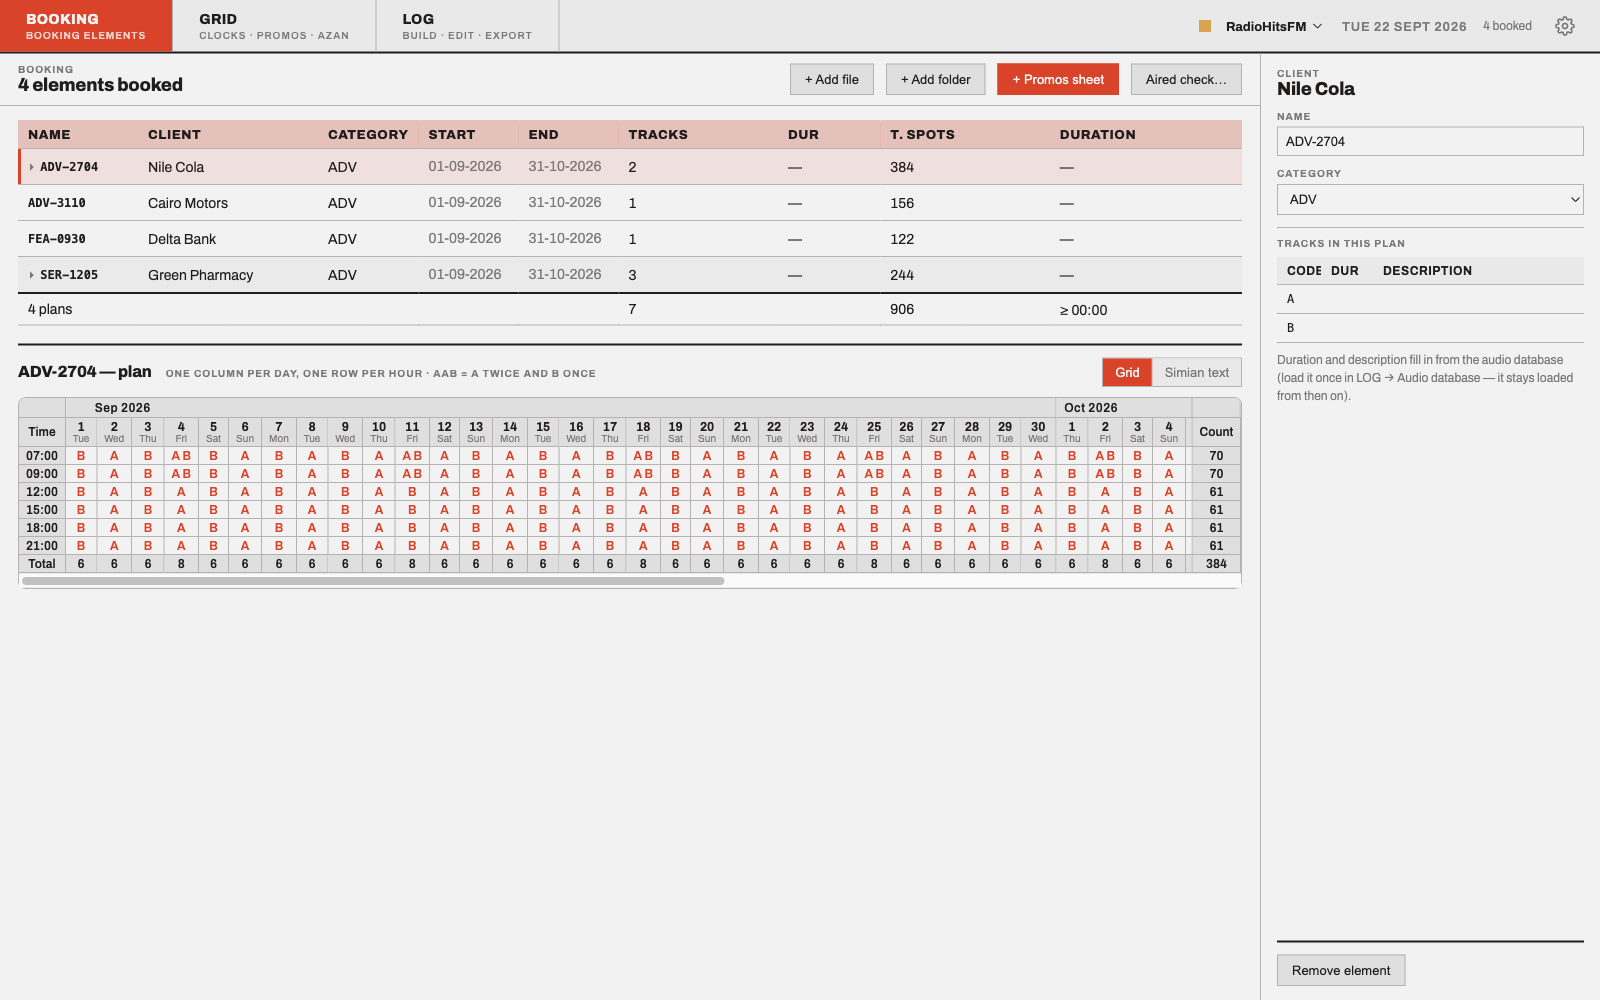
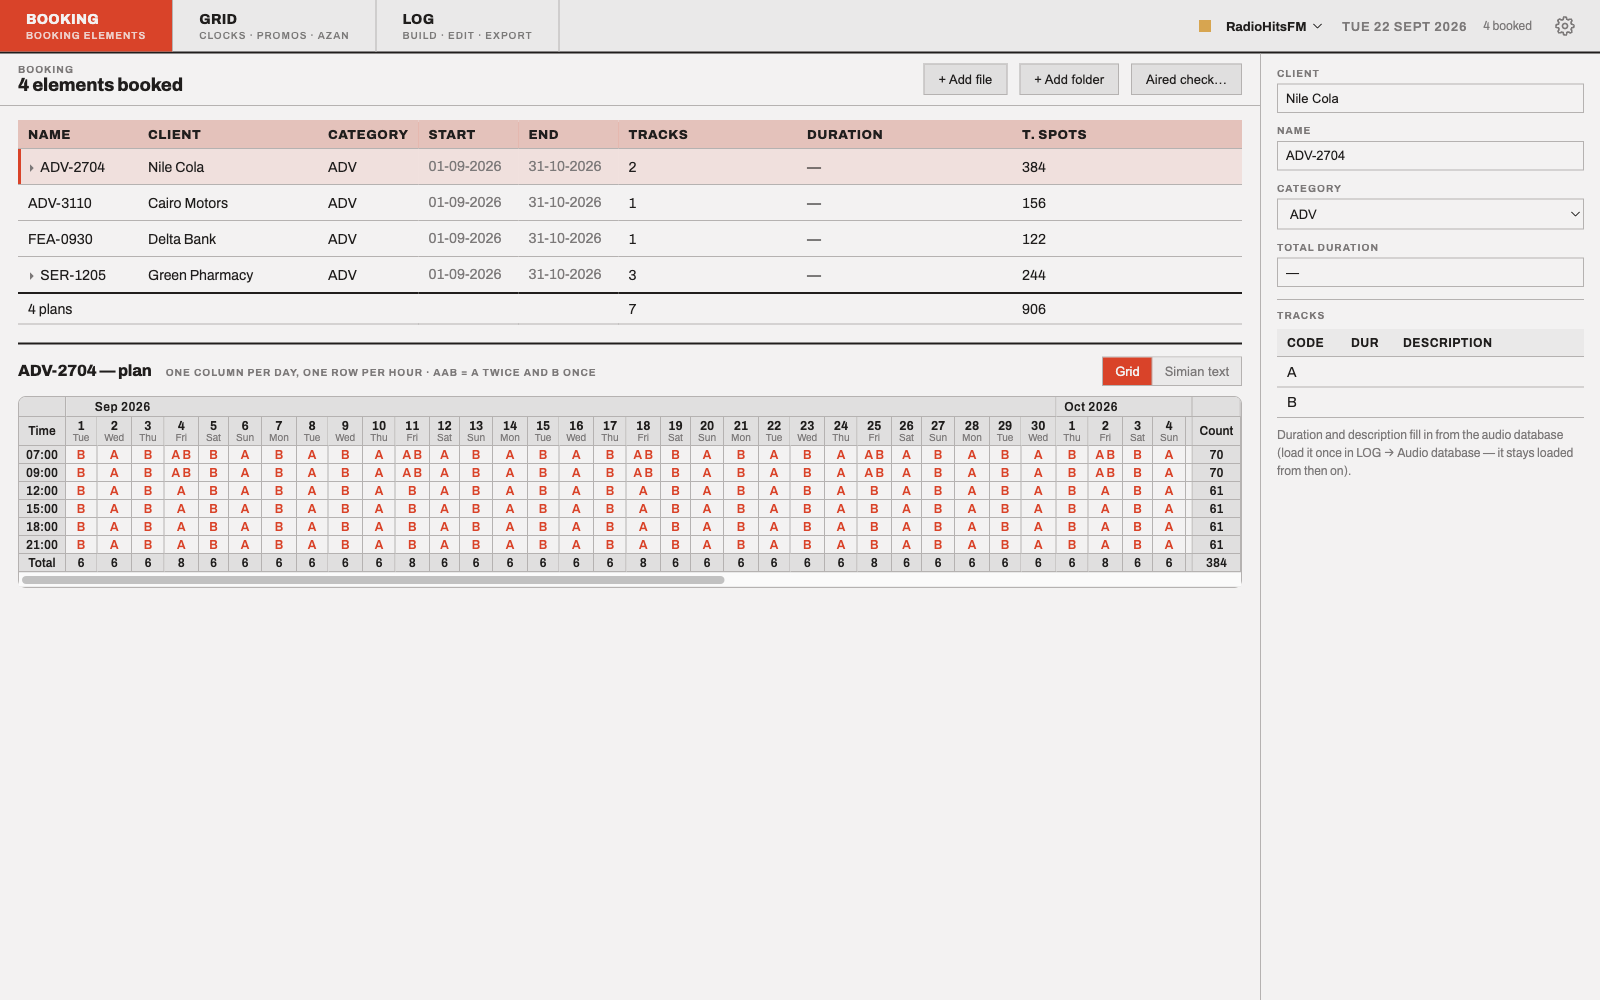
Capture script imports the promos sheet on the Grid tab
The Booking "+ Promos sheet" button it used is gone; README screenshots
refreshed for the reworked Booking view.

diff --git a/scripts/screenshots/capture.ts b/scripts/screenshots/capture.ts
@@ -135,15 +135,10 @@ test('capture README screenshots', async () => {
   await page.getByRole('button', { name: STATION }).click()
   await expect(page.locator('.tab', { hasText: 'BOOKING' })).toBeVisible()
 
-  // ---- BOOKING: import the demo templates + promos sheet ---------------------
+  // ---- BOOKING: import the demo templates --------------------------------
   await stubOpenDialog(JSON.parse(process.env.SHOT_TEMPLATES!))
   await page.getByRole('button', { name: '+ Add file' }).click()
   await expect(page.locator('.book-row')).toHaveCount(4)
-
-  // The sheet has no row in the Booking table (placement lives on the Grid
-  // tab); the Grid promos layer below is where its content is asserted.
-  await stubOpenDialog([join(ROOT, 'test', 'fixtures', 'Promos.xlsx')])
-  await page.getByRole('button', { name: '+ Promos sheet' }).click()
 
   // Select the first element so the plan grid + inspector fill in.
   await page.locator('.book-row').first().click()
@@ -160,6 +155,9 @@ test('capture README screenshots', async () => {
 
   // ---- GRID: promos layer (blocked hours black, placements visible) ----------
   await page.locator('.seg-btn', { hasText: 'Promos' }).click()
+  // The promos sheet imports here (its Booking button moved to this tab).
+  await stubOpenDialog([join(ROOT, 'test', 'fixtures', 'Promos.xlsx')])
+  await page.getByRole('button', { name: 'Load promos…' }).click()
   await expect(page.locator('.cell-gblocked').first()).toBeVisible()
   // Pick the first program so blackout/excluded/placed cells all show.
   await page.locator('.lib-item').nth(1).locator('.lib-main').click()
